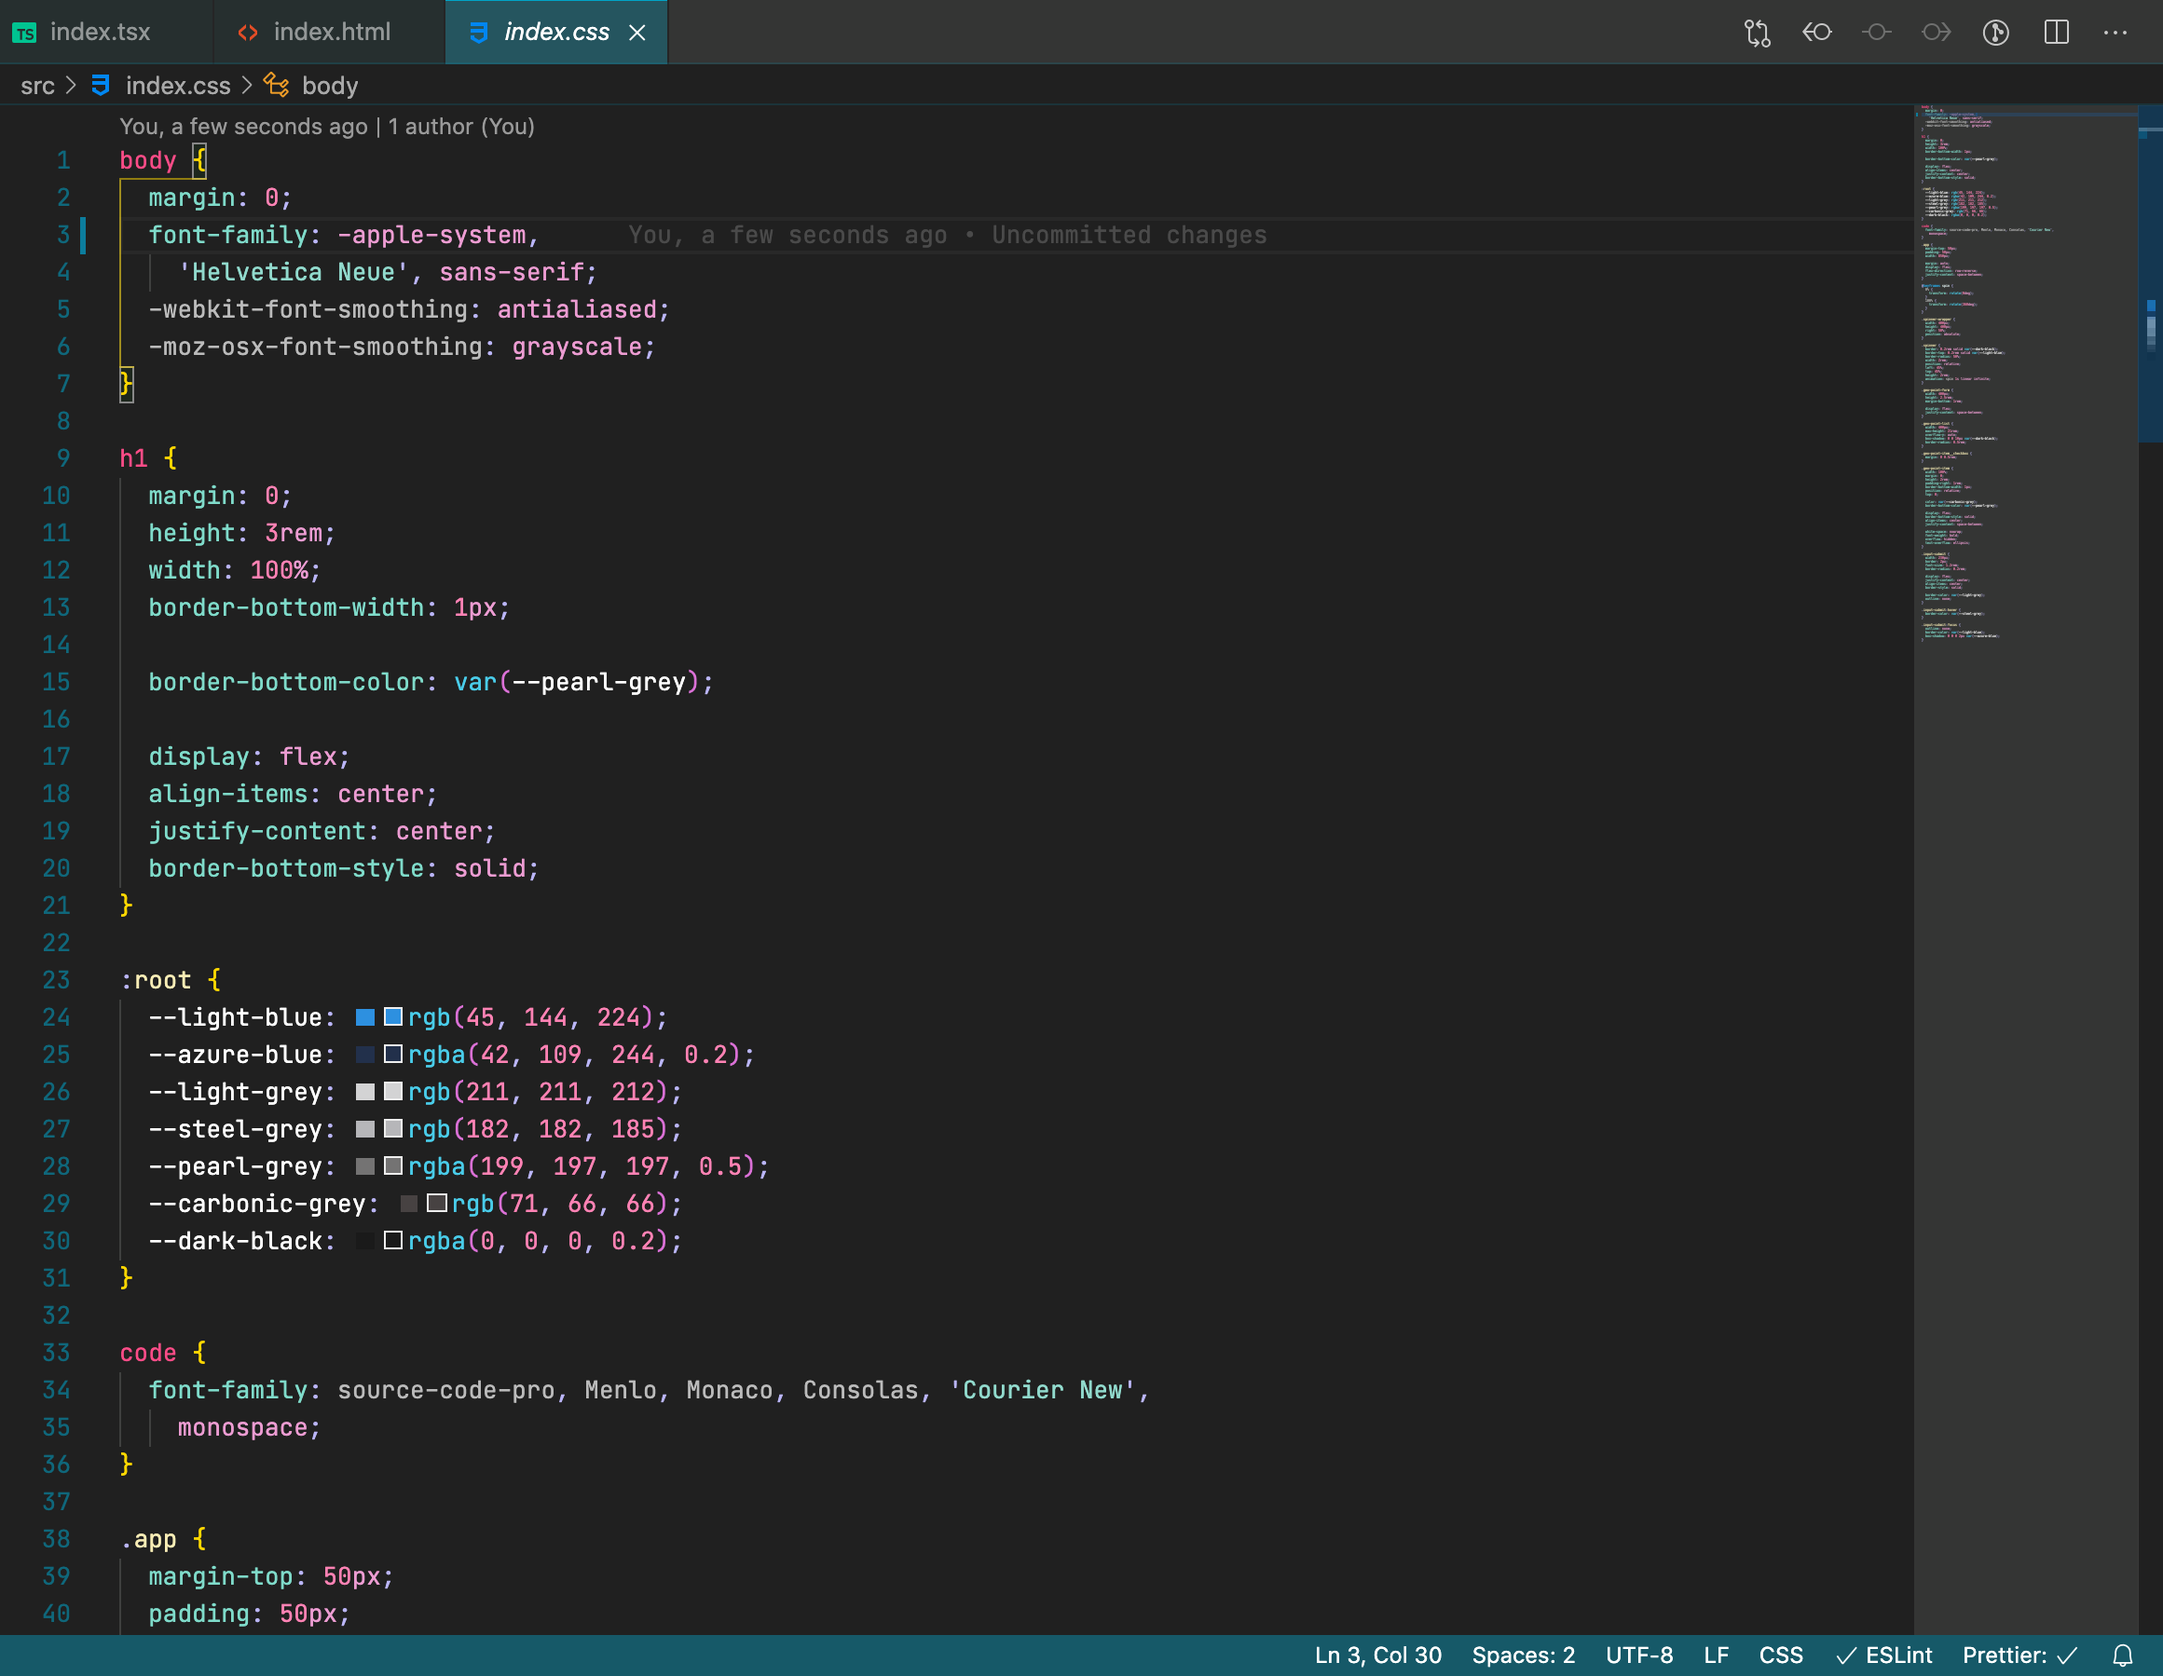
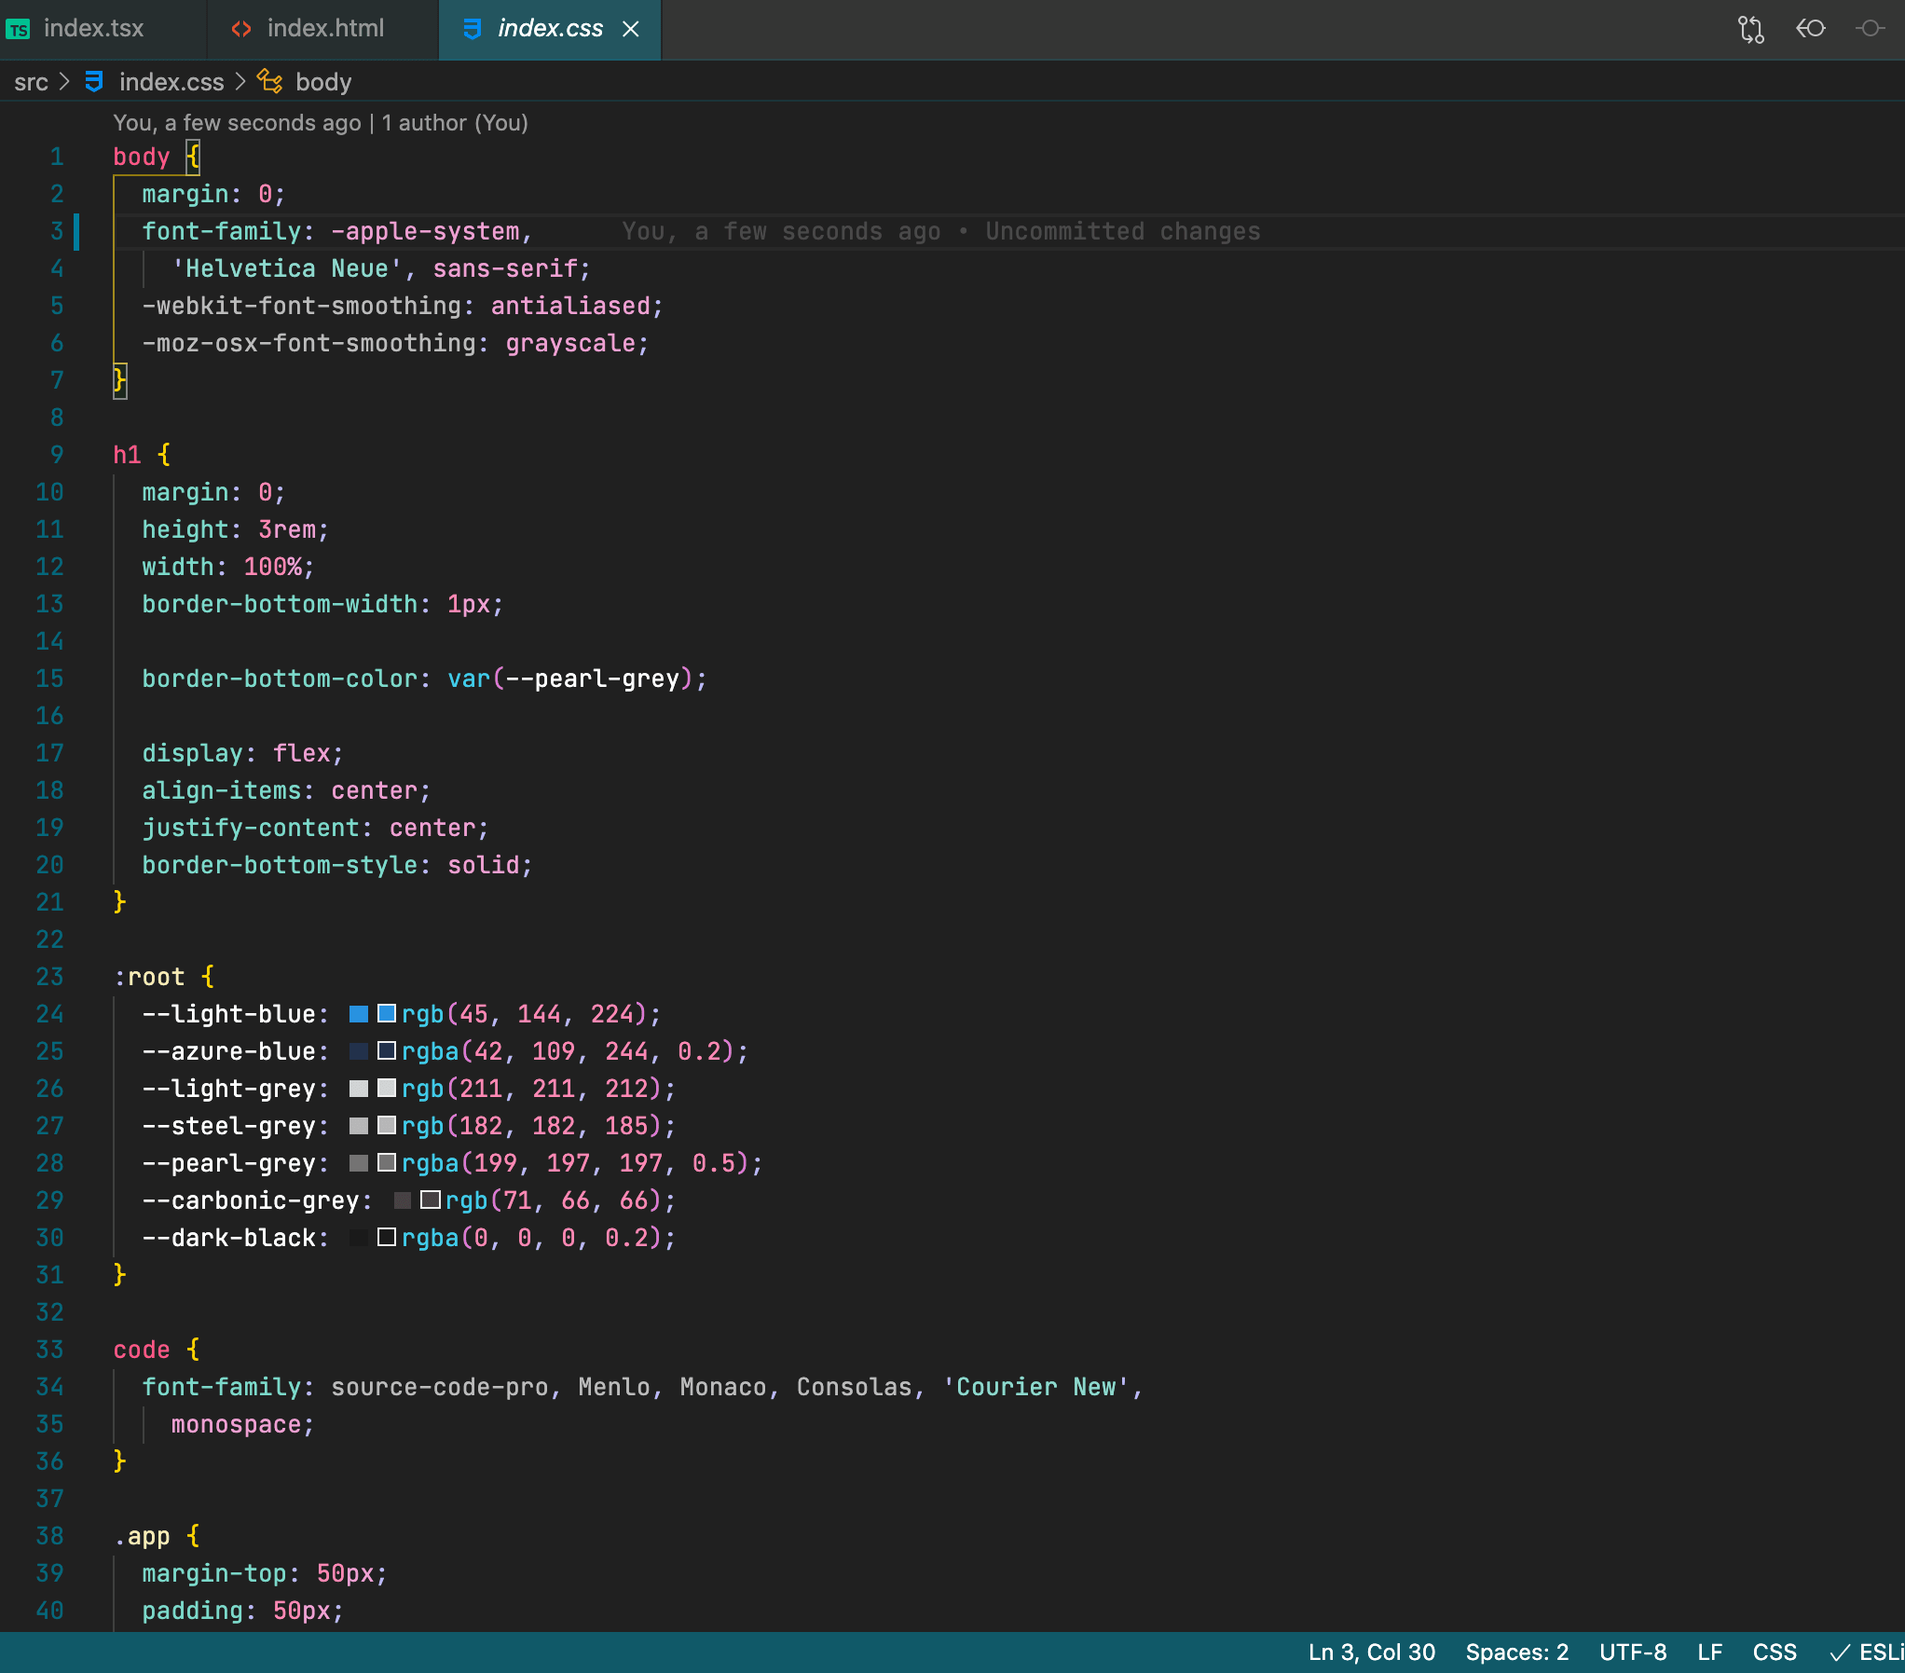
release: create 1.0.8 realaze( minimize images)

diff --git a/readme.md b/readme.md
@@ -6,11 +6,11 @@ In most cases programers use dark theme for your daily needs. There's only a dar
 
 **Dark  React**
 
-![HTML](images/no-chance-theme-react.png)
+![React](images/no-chance-theme-react.png)
 
 **Dart Typescript**
 
-![HTML](images/no-chance-theme-typescript.png)
+![Typescript](images/no-chance-theme-typescript.png)
 
 **Dark  HTML**
 
@@ -18,7 +18,7 @@ In most cases programers use dark theme for your daily needs. There's only a dar
 
 **Dark  CSS**
 
-![HTML](images/no-chance-theme-css.png)
+![CSS](images/no-chance-theme-css.png)
 
 
 ## Installation
